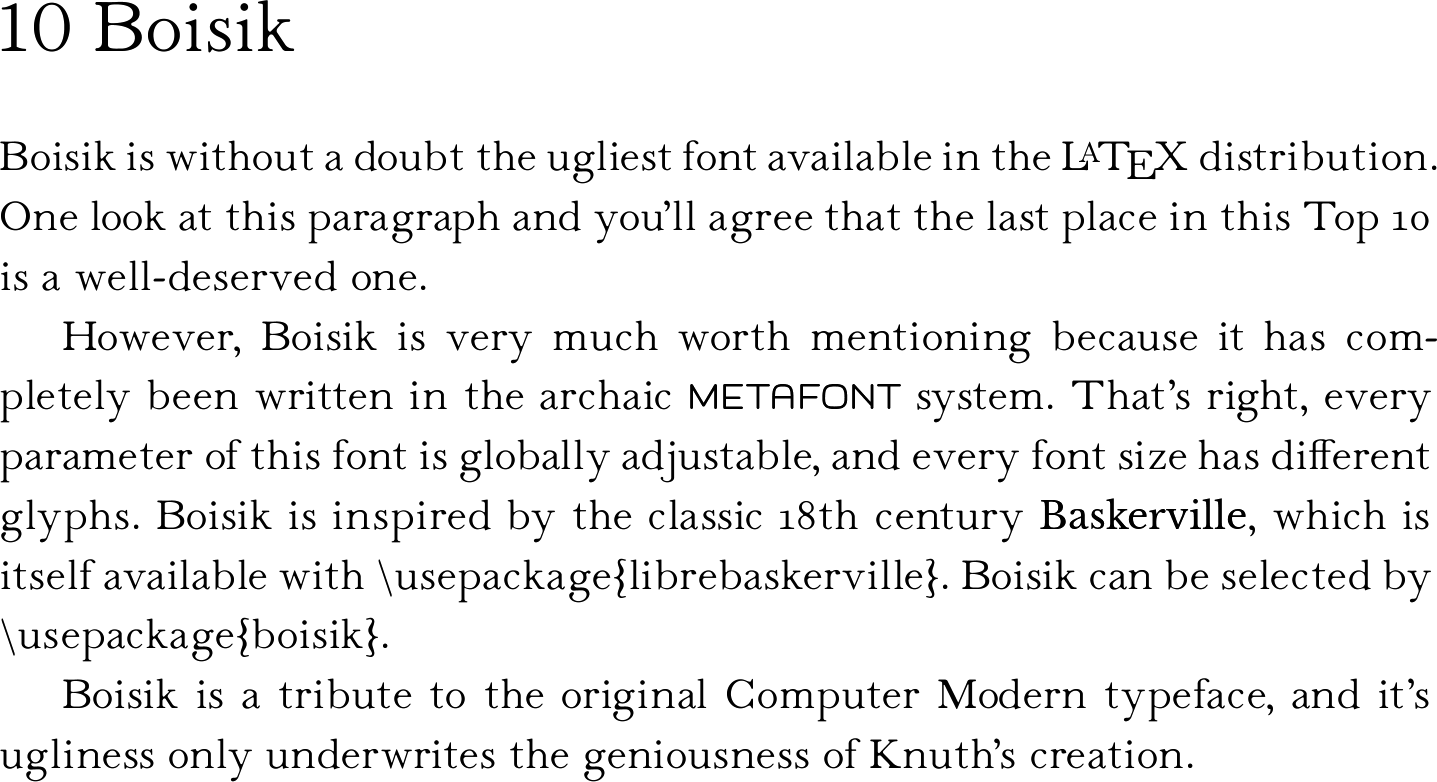
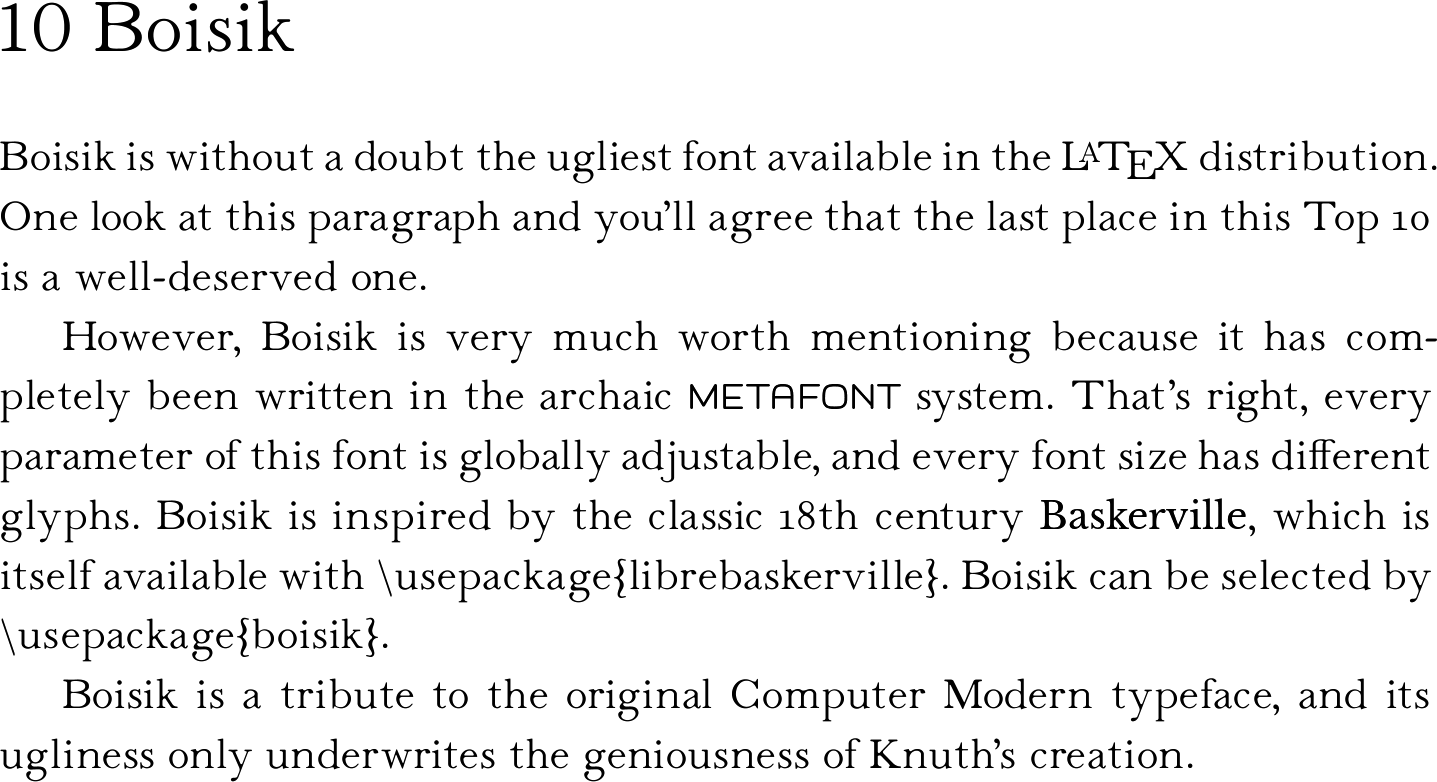
fix spelling error

Changed region(s): [[0.1531, 0.8593, 0.9798, 0.9207]]

diff --git a/boisik.tex b/boisik.tex
@@ -25,7 +25,7 @@ available with \textbackslash{}usepackage\{librebaskerville\}. Boisik
 can be selected by \textbackslash{}usepackage\{boisik\}.
 
 Boisik
-is a tribute to the original Computer Modern typeface, and it's
+is a tribute to the original Computer Modern typeface, and its
 ugliness only underwrites the geniousness of Knuth's creation.
 
 
